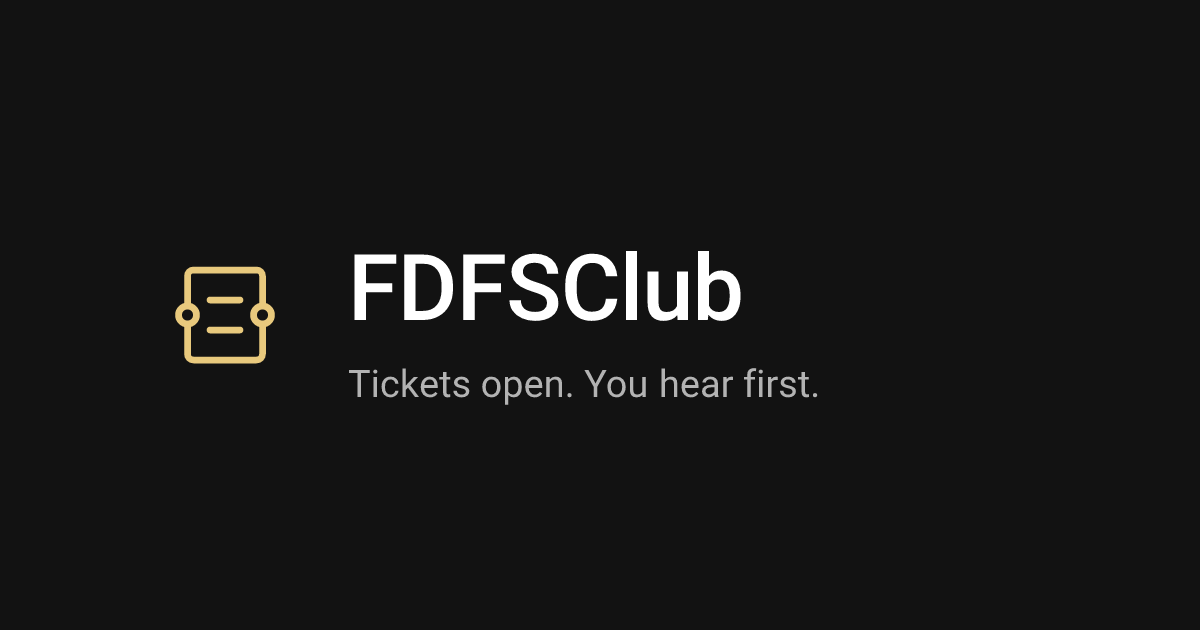
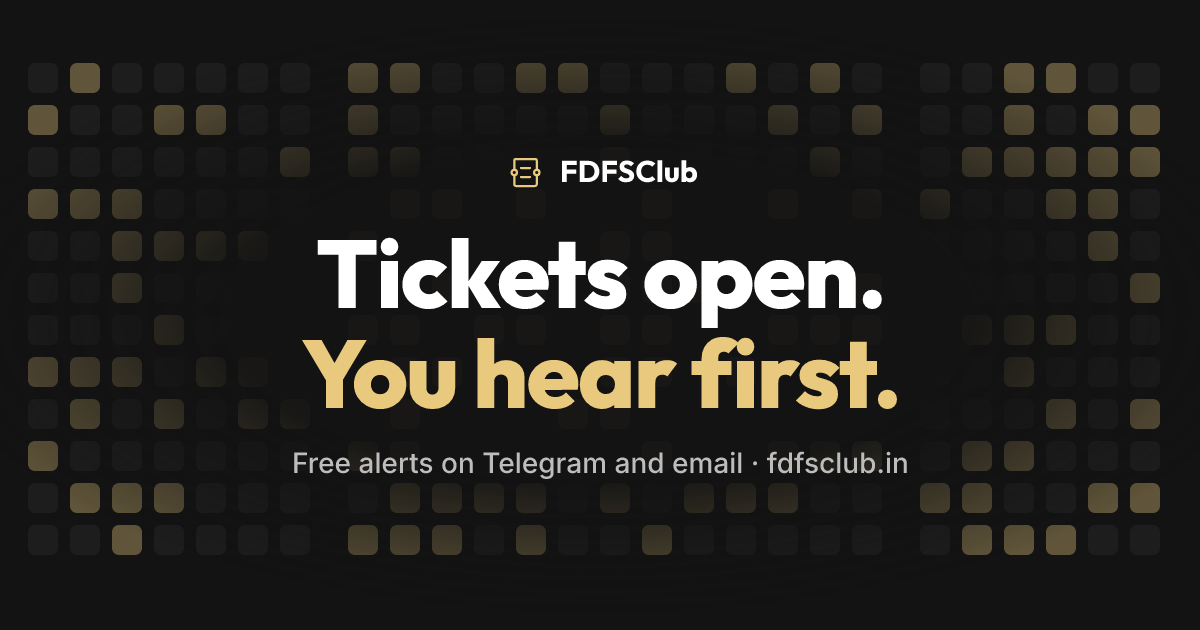
chore: update preview image

diff --git a/index.html b/index.html
@@ -18,12 +18,14 @@
     <meta charset="UTF-8" />
     <meta name="viewport" content="width=device-width, initial-scale=1.0, viewport-fit=cover" />
     <script>document.documentElement.classList.remove('no-js')</script>
-    <title>FDFSClub · Alerts when tickets open</title>
+    <title>FDFSClub · Free movie ticket alerts when tickets open</title>
     <meta name="description" content="Get a Telegram message or email when tickets open for the movie, date and theatres you choose. Free movie ticket alerts in India." />
     <meta name="theme-color" content="#121212" />
     <meta name="color-scheme" content="dark" />
     <meta name="robots" content="index, follow, max-image-preview:large" />
     <link rel="canonical" href="https://fdfsclub.in/" />
+    <link rel="alternate" hreflang="en-IN" href="https://fdfsclub.in/" />
+    <link rel="alternate" hreflang="x-default" href="https://fdfsclub.in/" />
     <link rel="alternate" type="text/plain" title="FDFSClub for AI agents" href="/llms.txt" />
     <link rel="sitemap" type="application/xml" href="/sitemap.xml" />
     <link rel="icon" type="image/svg+xml" href="/favicon.svg" />
@@ -31,18 +33,18 @@
 
     <meta property="og:type" content="website" />
     <meta property="og:site_name" content="FDFSClub" />
-    <meta property="og:title" content="FDFSClub · Alerts when tickets open" />
+    <meta property="og:title" content="FDFSClub · Free movie ticket alerts when tickets open" />
     <meta property="og:description" content="Free alerts when tickets open for the movie, date and theatres you choose." />
     <meta property="og:url" content="https://fdfsclub.in/" />
-    <meta property="og:image" content="https://fdfsclub.in/og-image.png" />
+    <meta property="og:image" content="https://fdfsclub.in/og-image.png?v=2" />
     <meta property="og:image:width" content="1200" />
     <meta property="og:image:height" content="630" />
     <meta property="og:image:alt" content="FDFSClub: Tickets open. You hear first." />
     <meta property="og:locale" content="en_IN" />
     <meta name="twitter:card" content="summary_large_image" />
-    <meta name="twitter:title" content="FDFSClub · Alerts when tickets open" />
+    <meta name="twitter:title" content="FDFSClub · Free movie ticket alerts when tickets open" />
     <meta name="twitter:description" content="Free alerts when tickets open for the movie, date and theatres you choose." />
-    <meta name="twitter:image" content="https://fdfsclub.in/og-image.png" />
+    <meta name="twitter:image" content="https://fdfsclub.in/og-image.png?v=2" />
     <meta name="twitter:image:alt" content="FDFSClub: Tickets open. You hear first." />
 
     <script type="application/ld+json">

diff --git a/src/components/layout/AppLayout.tsx b/src/components/layout/AppLayout.tsx
@@ -4,7 +4,7 @@ import Navbar from './Navbar'
 import AuthModal from '@/components/auth/AuthModal'
 import { useAuthModalStore } from '@/store/authModalStore'
 
-const DEFAULT_TITLE = 'FDFSClub · Alerts when tickets open'
+const DEFAULT_TITLE = 'FDFSClub · Free movie ticket alerts when tickets open'
 
 const PAGE_TITLES: Record<string, string> = {
   '/dashboard': 'Your alerts',
